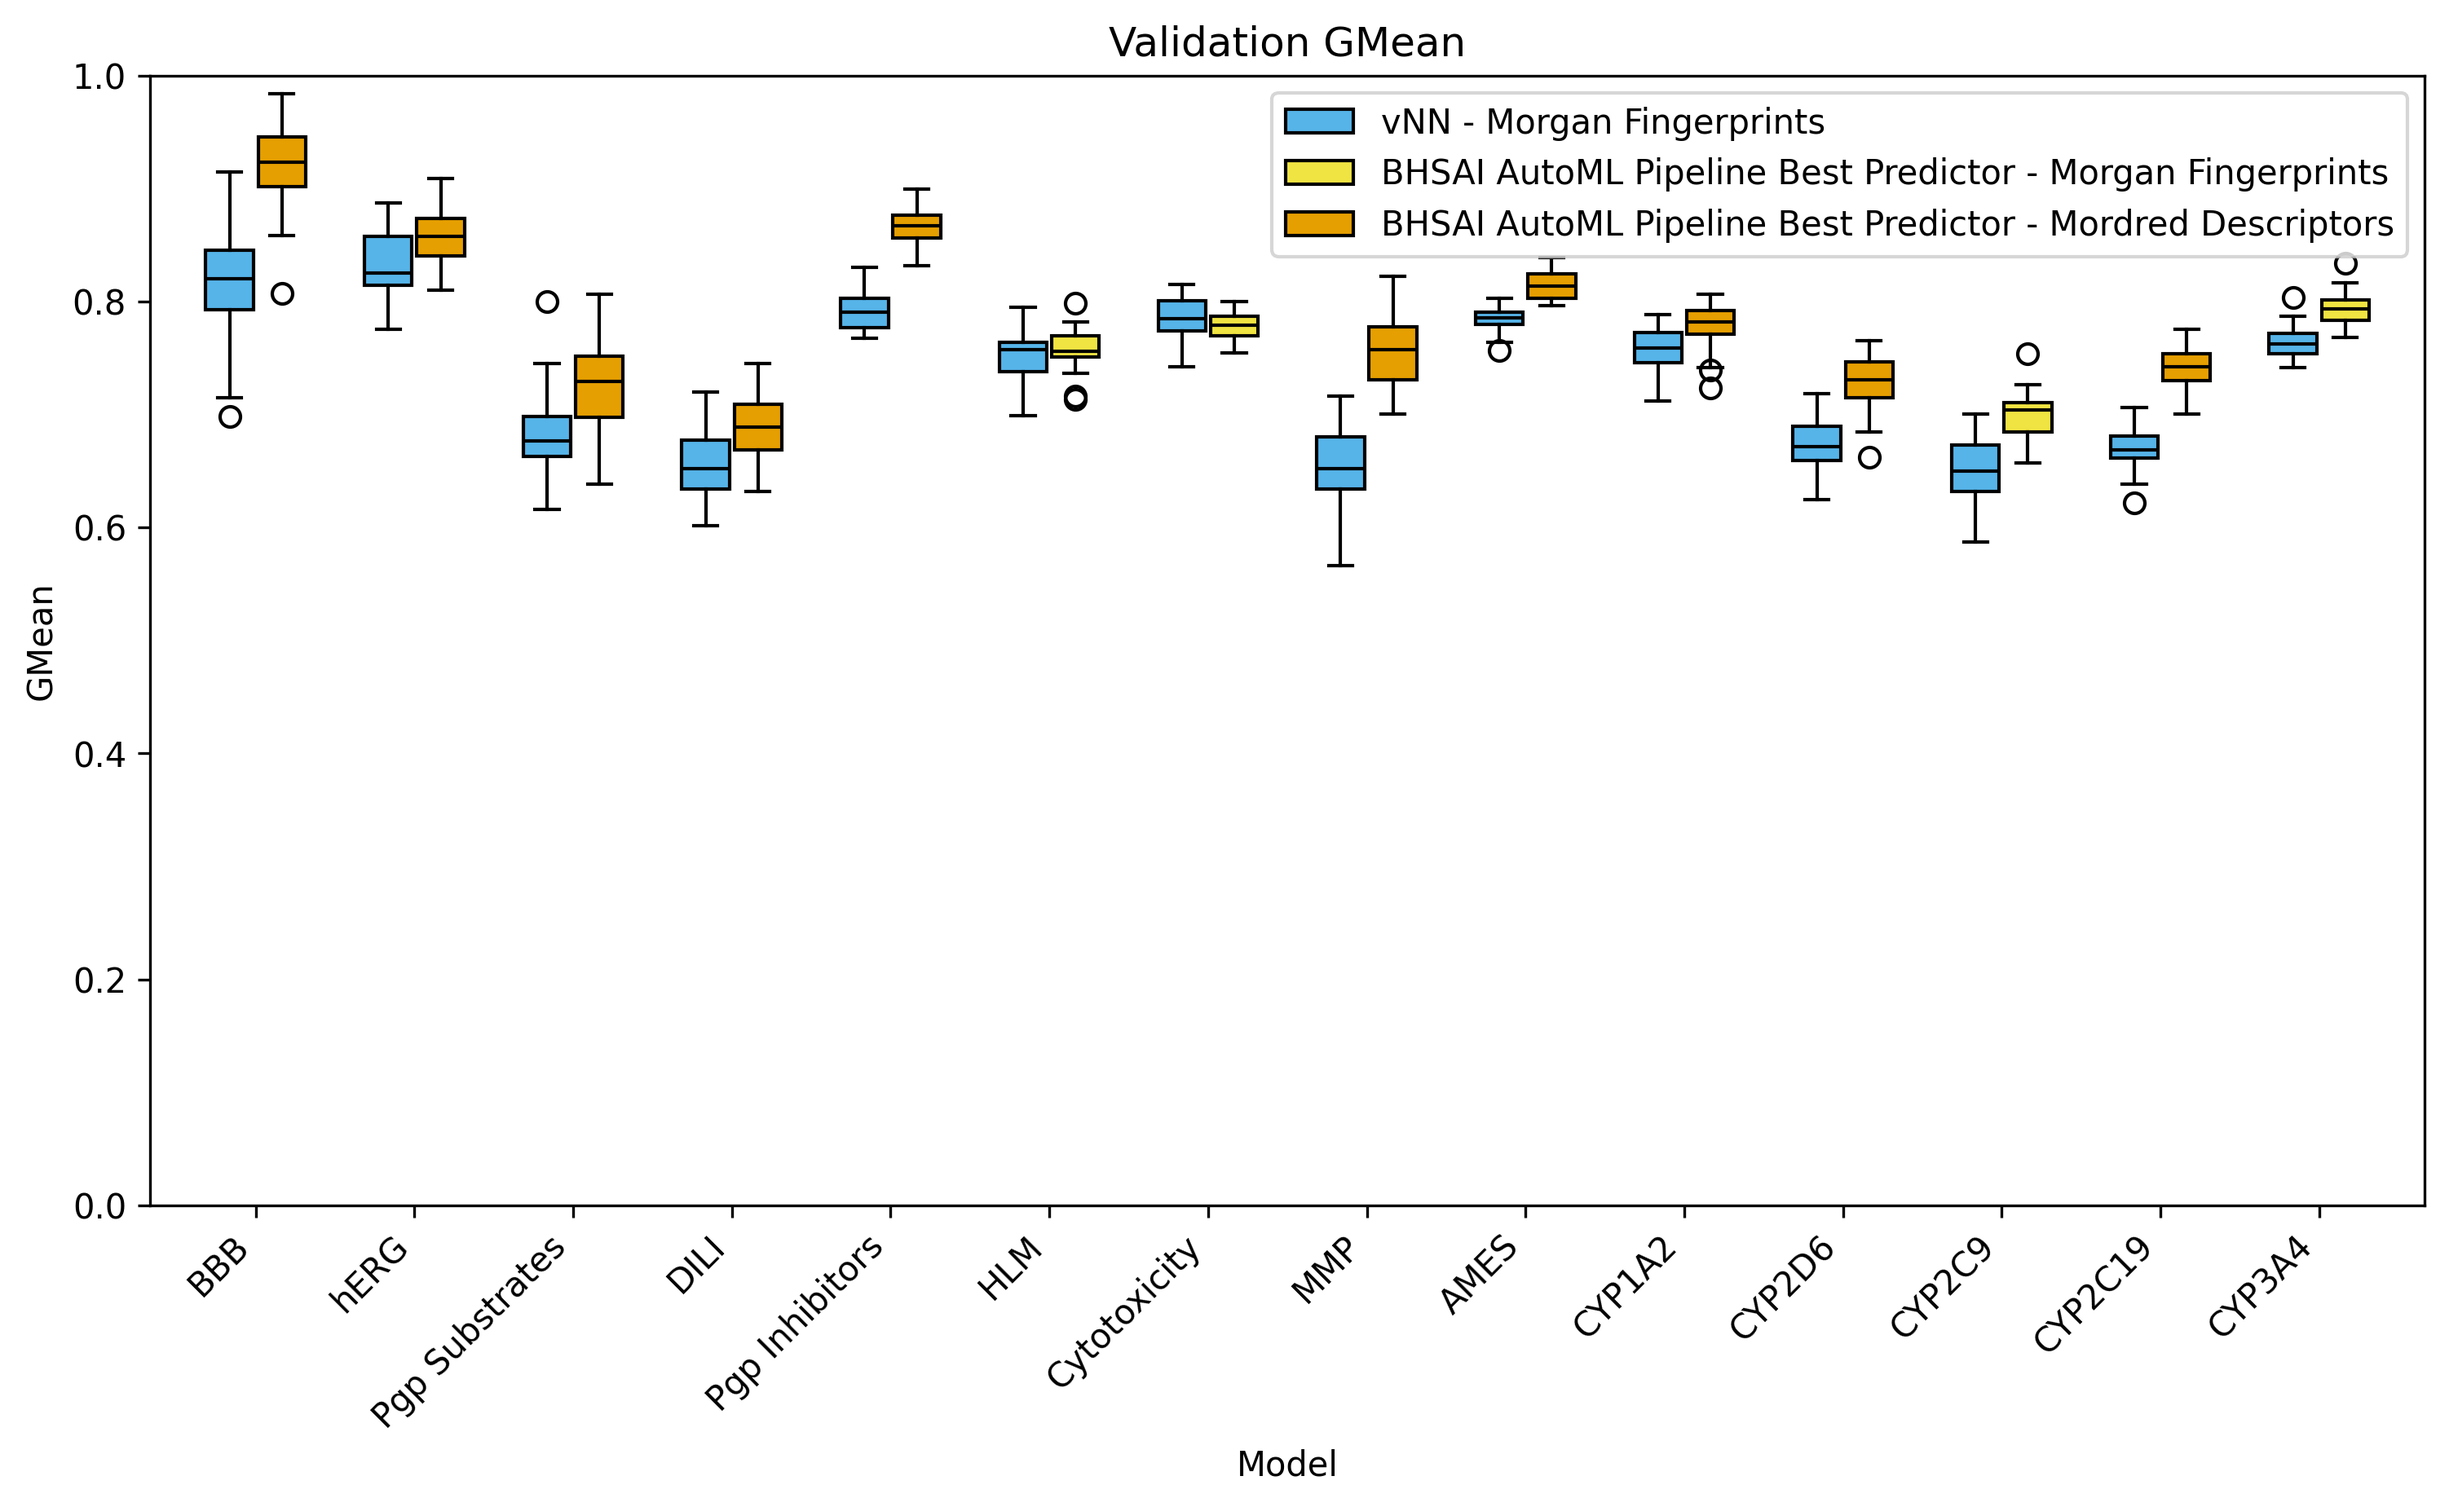
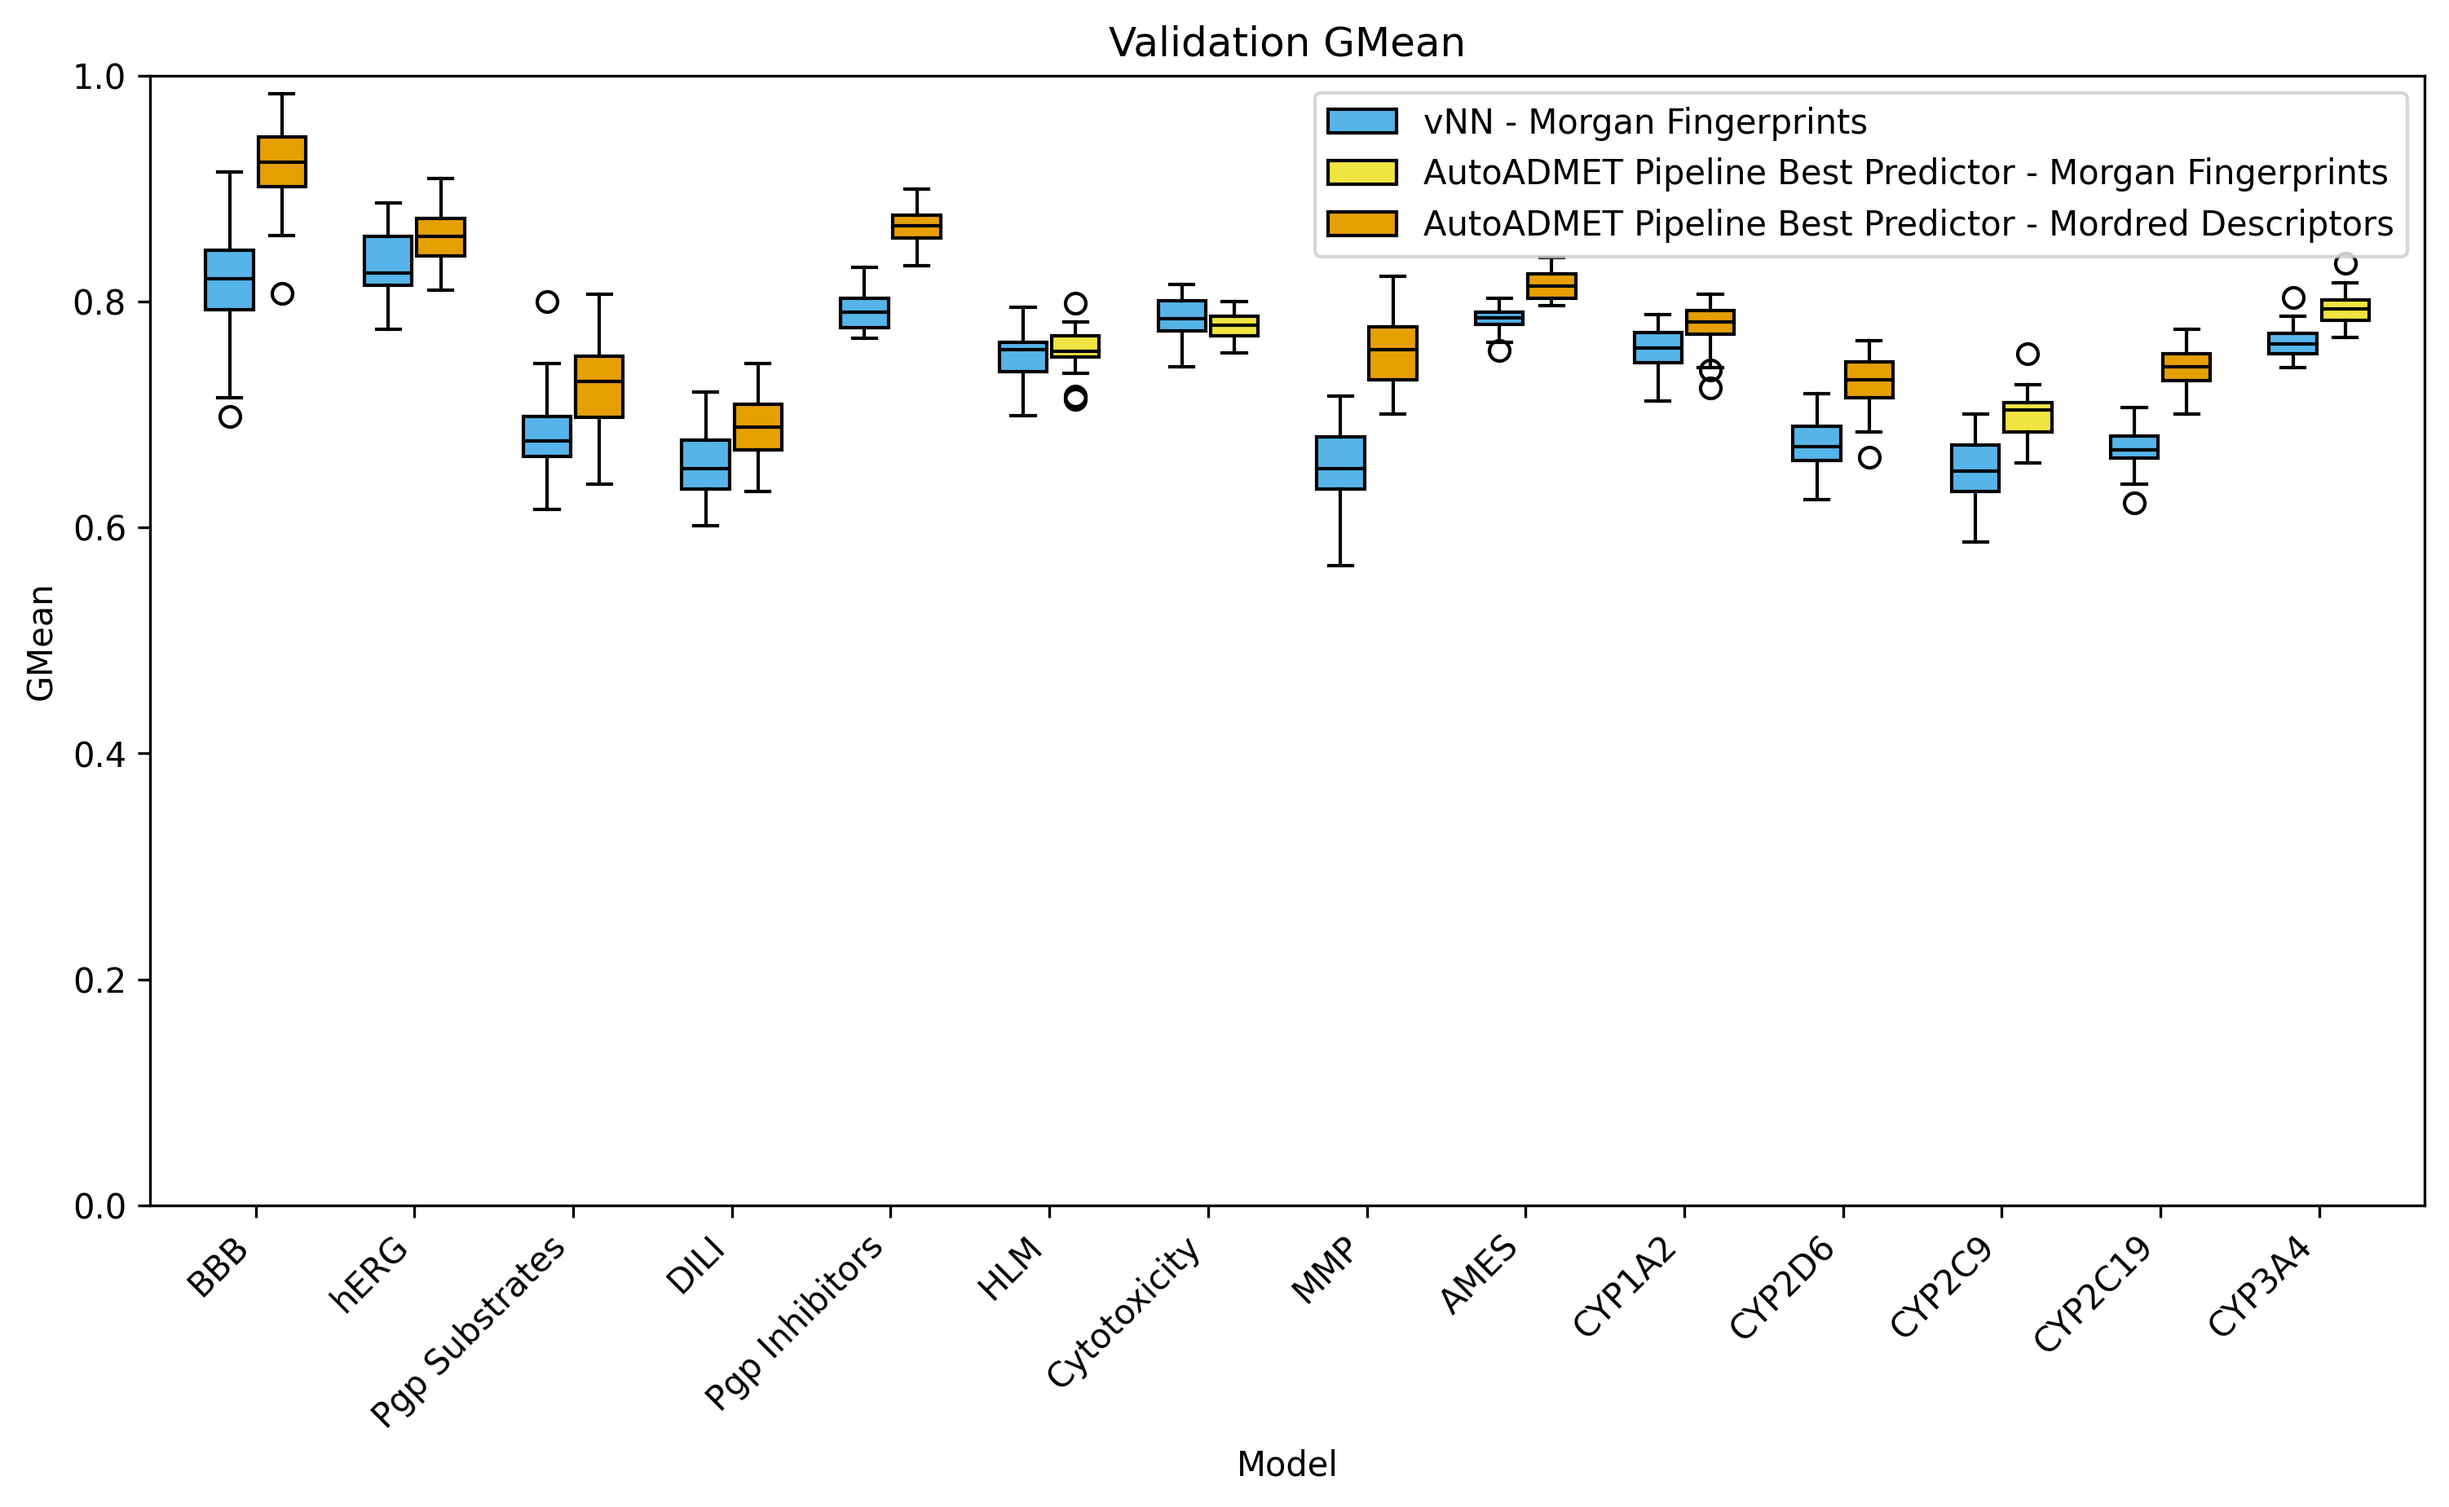
Change BHSAI AutoML to AutoADMET, fix gitignore

Changed region(s): [[0.5263, 0.0617, 0.774, 0.185]]

diff --git a/visualization/plot_performance_validation.py b/visualization/plot_performance_validation.py
@@ -1,0 +1,203 @@
+from pathlib import Path
+
+from matplotlib.patches import Patch
+import pandas as pd
+import itertools as it
+from matplotlib.lines import Line2D
+import matplotlib.pyplot as plt
+from matplotlib import colors as mcolors
+import numpy as np
+from pathlib import Path
+from collections import defaultdict
+import adjustText
+
+datasets = pd.read_csv(Path(__file__).parent / "dataset_config.csv")
+datasets = datasets.sort_values("FULL_SIZE").reset_index(drop=True)
+
+SPREAD = 0.33
+TICK_WIDTH = 0.08
+METRICS = ["Kappa", "Accuracy", "Specificity", "GMean", "ROC_AUC"]
+
+FEATURIZATIONS = ["morgan_fp", "mordred_desc"]
+
+ORDERED_FRAMEWORKS = {
+    framework: idx
+    for idx, framework in enumerate(
+        [
+            "vnn",
+            "bhsai_automl",
+        ]
+    )
+}
+
+ORDERED_FEATURIZATIONS = {
+    featurization: idx
+    for idx, featurization in enumerate(
+        [
+            "morgan_fp",
+            "mordred_desc",
+            "ensemble",
+        ]
+    )
+}
+
+
+def make_combined_cv_dfs() -> tuple[pd.DataFrame, pd.DataFrame]:
+    results_summary_dfs: list[pd.DataFrame] = []
+    per_fold_results_dfs: list[pd.DataFrame] = []
+    for dataset in datasets["DATASET"]:
+        try:
+            results_summary_file = (
+                f"output/bhsai_automl_pipeline/{dataset}/cv_results/results_summary.csv"
+            )
+            results_summary = pd.read_csv(results_summary_file)
+            results_summary.insert(0, "dataset", dataset)
+            results_summary_dfs.append(results_summary)
+
+            per_fold_results_file = f"output/bhsai_automl_pipeline/{dataset}/cv_results/per_fold_results.csv"
+            per_fold_results = pd.read_csv(per_fold_results_file)
+            per_fold_results.insert(0, "dataset", dataset)
+            per_fold_results_dfs.append(per_fold_results)
+        except Exception:
+            print(f"No validation performance for {dataset}")
+
+    results_summary: pd.DataFrame = pd.concat(results_summary_dfs).reset_index(drop=True)
+    per_fold_results: pd.DataFrame = pd.concat(per_fold_results_dfs).reset_index(drop=True)
+
+    results_summary.to_csv(
+        "visualization/out/combined_cv_results_summary.csv",
+        index=False,
+    )
+
+    per_fold_results.to_csv(
+        "visualization/out/combined_cv_per_fold_results.csv",
+        index=False,
+    )
+    return (results_summary, per_fold_results)
+
+
+def main():
+    Path("visualization/out").mkdir(exist_ok=True)
+
+    # Make plot configurations
+    plot_configs = [
+        (
+            "vnn",
+            "morgan_fp",
+            0,
+            "vNN - Morgan Fingerprints",
+            "#56B4E9",
+        ),
+        (
+            "bhsai_automl",
+            "morgan_fp",
+            1,
+            "AutoADMET Pipeline Best Predictor - Morgan Fingerprints",
+            "#F0E442",
+        ),
+        (
+            "bhsai_automl",
+            "mordred_desc",
+            1,
+            "AutoADMET Pipeline Best Predictor - Mordred Descriptors",
+            "#E69F00",
+        ),
+    ]
+    plot_configs = {
+        (framework, featurization): (
+            color,
+            SPREAD * (offset  - 0.5),
+            display_name,
+        )
+        for framework, featurization, offset, display_name, color in plot_configs
+    }
+
+    results_summary, per_fold_results = make_combined_cv_dfs()
+
+    # Get the per fold results for only the best validating AutoML models
+    automl_best = (
+        results_summary[results_summary["Model"] != "vNN"]
+        .sort_values("Kappa", ascending=False)
+        .drop_duplicates("dataset")
+    )
+    is_best_model = (
+        per_fold_results[["dataset", "Descriptor", "Model"]].merge(
+            automl_best[["dataset", "Descriptor", "Model"]], how="left", indicator=True
+        )["_merge"]
+        == "both"
+    )
+    best_model_per_fold_results = per_fold_results[is_best_model].copy()
+    best_model_per_fold_results["framework"] = "bhsai_automl"
+
+    # Get the per fold results for only the vNN models
+    vnn_per_fold_results = per_fold_results[per_fold_results["Model"] == "vNN"].copy()
+    vnn_per_fold_results["framework"] = "vnn"
+
+    # Read in dataset config
+    dataset_config = pd.read_csv("C:/Users/zsmith/Documents/GitHub/AutoML/visualization/dataset_config.csv")
+    dataset_config = dataset_config[["DATASET", "DISPLAY_NAME", "TRAIN_SIZE"]]
+    dataset_config = dataset_config.sort_values("TRAIN_SIZE").reset_index(drop=True)
+
+    # Combine the per fold results to plot
+    plot_per_fold_results = pd.concat([vnn_per_fold_results, best_model_per_fold_results])
+    desc_to_display = {
+        "Morgan": "morgan_fp",
+        "Mordred": "mordred_desc",
+    }
+    plot_per_fold_results["featurization"] = plot_per_fold_results["Descriptor"].replace(desc_to_display)
+
+    for metric in METRICS:
+        # Make the box plot
+        fig = plt.figure(figsize=(12, 6), dpi=300)
+        ax = fig.add_subplot()
+        ax.set_ylim(bottom=0, top=1)
+        ax.set_title(f"Validation {metric}")
+        ax.set_xlabel("Model")
+        ax.set_ylabel(metric)
+        for _, framework, featurization in (
+            plot_per_fold_results[["framework", "featurization"]].drop_duplicates().itertuples()
+        ):
+            color, offset, _ = plot_configs[(framework, featurization)]
+
+            per_fold_results_subsection = plot_per_fold_results[
+                (plot_per_fold_results["framework"] == framework)
+                & (plot_per_fold_results["featurization"] == featurization)
+            ]
+            xs = [
+                per_fold_results_subsection[per_fold_results_subsection["dataset"] == dataset][
+                    metric
+                ].to_numpy()
+                for dataset in dataset_config["DATASET"]
+            ]
+            positions = dataset_config.index.to_numpy() + offset
+
+            bplot = ax.boxplot(
+                xs, positions=positions, patch_artist=True, widths=[0.3] * len(xs)
+            )
+            for box in bplot["boxes"]:
+                box.set_facecolor(color)
+            for median in bplot["medians"]:
+                median.set_color("#000000")
+
+        ax.xaxis.set_ticks(
+            dataset_config.index.to_numpy(),
+            dataset_config["DISPLAY_NAME"],
+            rotation=45,
+            ha="right",
+        )
+
+        handles = [
+            (
+                Patch(edgecolor="black", facecolor=color),
+                display_name,
+            )
+            for (color, _, display_name) in plot_configs.values()
+        ]
+        ax.legend(*zip(*handles))
+        
+        fig.savefig(
+            f"visualization/out/box_plots.{metric.lower()}.validation.png", bbox_inches="tight"
+        )
+
+if __name__ == "__main__":
+    main()

diff --git a/visualization/plot_performance.py b/visualization/plot_performance.py
@@ -108,21 +108,21 @@ def main():
             "bhsai_automl",
             "morgan_fp",
             1,
-            "BHSAI AutoML Pipeline Best Predictor - Morgan Fingerprints",
+            "AutoADMET Pipeline Best Predictor - Morgan Fingerprints",
             "#F0E442",
         ),
         (
             "bhsai_automl",
             "mordred_desc",
             1,
-            "BHSAI AutoML Pipeline Best Predictor - Mordred Descriptors",
+            "AutoADMET Pipeline Best Predictor - Mordred Descriptors",
             "#E69F00",
         ),
         (
             "bhsai_automl",
             "ensemble",
             2,
-            "BHSAI AutoML Pipeline Ensemble Predictor",
+            "AutoADMET Pipeline Ensemble Predictor",
             "#009E73",
         ),
     ]
@@ -314,12 +314,12 @@ def main():
         (
             (combined_performance_df["framework"] == "bhsai_automl")
             & (combined_performance_df["featurization"] != "ensemble"),
-            "BHSAI AutoML best predictor",
+            "AutoADMET best predictor",
         ),
         (
             (combined_performance_df["framework"] == "bhsai_automl")
             & (combined_performance_df["featurization"] == "ensemble"),
-            "BHSAI AutoML ensemble",
+            "AutoADMET ensemble",
         ),
     ]:
         df = combined_performance_df[index].copy()

diff --git a/top_models/applicability_domain/evaluate_applicability_domain.py b/top_models/applicability_domain/evaluate_applicability_domain.py
@@ -23,21 +23,21 @@ plot_configs = [
         "bhsai_automl",
         "morgan_fp",
         1,
-        "BHSAI AutoML Pipeline Best Predictor - Morgan Fingerprints",
+        "AutoADMET Pipeline Best Predictor - Morgan Fingerprints",
         "#F0E442",
     ),
     (
         "bhsai_automl",
         "mordred_desc",
         1,
-        "BHSAI AutoML Pipeline Best Predictor - Mordred Descriptors",
+        "AutoADMET Pipeline Best Predictor - Mordred Descriptors",
         "#E69F00",
     ),
     (
         "bhsai_automl",
         "ensemble",
         2,
-        "BHSAI AutoML Pipeline Ensemble Predictor",
+        "AutoADMET Pipeline Ensemble Predictor",
         "#009E73",
     ),
 ]

diff --git a/bhsai_automl_pipeline/bhsai_pipeline_all_endpoints_training.py b/bhsai_automl_pipeline/bhsai_pipeline_all_endpoints_training.py
@@ -293,7 +293,7 @@ if __name__ == "__main__":
     parser.add_argument(
         "--pipeline_repo_path",
         default=PIPELINE_REPO_PATH,
-        help="The path to the BHSAI AutoML pipeline repository.",
+        help="The path to the AutoADMET pipeline repository.",
     )
     args = parser.parse_args()
 

diff --git a/readme.md b/readme.md
@@ -63,14 +63,14 @@ To fit predictors using the frameworks run the following:
 
 **vNN:** `python vnn\vnn\vnn_all_endpoints_hpo.py`
 
-**BHSAI AutoML Pipeline:** `python bhsai_automl_pipeline/bhsai_pipeline_all_endpoints_training.py`
+**AutoADMET Pipeline:** `python bhsai_automl_pipeline/bhsai_pipeline_all_endpoints_training.py`
 
-Both of the above scripts include options to skip the time-consuming hyperparameter search. For vNN, use `--use_prefit`. For BHSAI AutoML Pipeline, use `--mode` with option `skip-cv` to skip the hyperparameter search, `load-model` to skip the ensembling and refitting the optimal model with full data, or `parse-results-only` to skip model evaluation and regenerate performance plots with previously collected performance data.
+Both of the above scripts include options to skip the time-consuming hyperparameter search. For vNN, use `--use_prefit`. For AutoADMET Pipeline, use `--mode` with option `skip-cv` to skip the hyperparameter search, `load-model` to skip the ensembling and refitting the optimal model with full data, or `parse-results-only` to skip model evaluation and regenerate performance plots with previously collected performance data.
 
 # Visualization
 
-Run the following to generate validation performance comparisons between vNN and the individual models that the BHSAI AutoML Pipeline trains:
+Run the following to generate validation performance comparisons between vNN and the individual models that the AutoADMET Pipeline trains:
 `python visualization\plot_significance_tests.py`
 
-And the following to generate evaluation performance comparisons between vNN, the best validating model from the BHSAI AutoML Pipeline, and its ensemble model:
+And the following to generate evaluation performance comparisons between vNN, the best validating model from the AutoADMET Pipeline, and its ensemble model:
 `python visualization\plot_performance.py`
